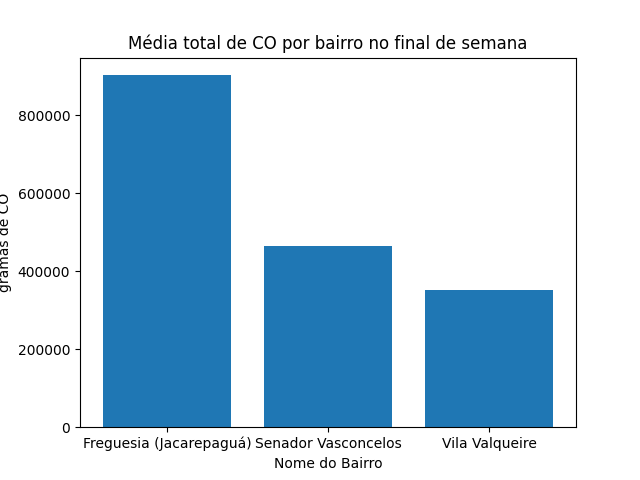
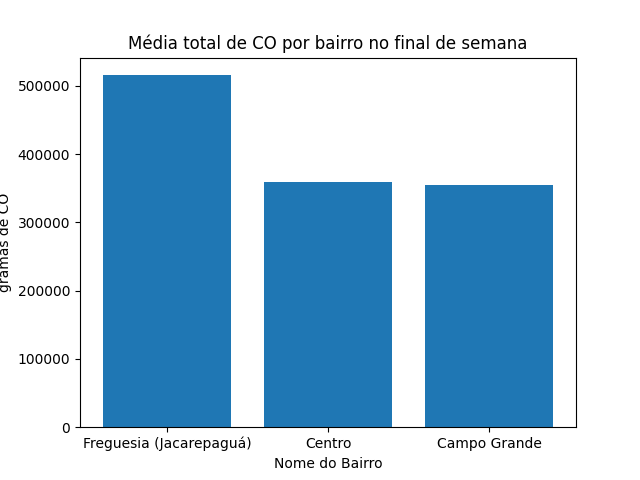
fix

diff --git a/app.py b/app.py
@@ -4,7 +4,7 @@ from src.scripts.time_per_neighborhood import *
 from src.scripts.pollution_per_line import *
 
 def main():
-    reportRequestList = [13]
+    reportRequestList = [14]
     generateReport(reportRequestList)
   
 def generateReport(reportRequestList):
@@ -36,6 +36,8 @@ def generateReport(reportRequestList):
         top3NoxNeighbordhood()
     if 13 in reportRequestList:
         top3NoxNeighbordhoodInWeekend()
+    if 14 in reportRequestList:
+        top3CONeighbordhoodInWeek()
 
 main()
 print('success!')

diff --git a/src/scripts/top_pollution_neighborhood.py b/src/scripts/top_pollution_neighborhood.py
@@ -55,12 +55,12 @@ def top3CONeighbordhoodInWeekend():
 
     plotTopCoNeighbordhoodWeekend(df_means['co_mean'], 3)
 
-def top3NoxNeighbordhoodInWeek():
+def top3CONeighbordhoodInWeek():
     DSTs = filterByTimerange('2022-02-14', '2022-02-18')
 
     df_means = pollutionByNeighbordhood(DSTs)
 
-    plotTopCo2NeighbordhoodWeek(df_means['nox_mean'], 3)
+    plotTopCoNeighbordhoodWeek(df_means['co_mean'], 3)
 
 def top3NoxNeighbordhood():
     DSTs = filterByTimerange('2022-02-10', '2022-02-19')
